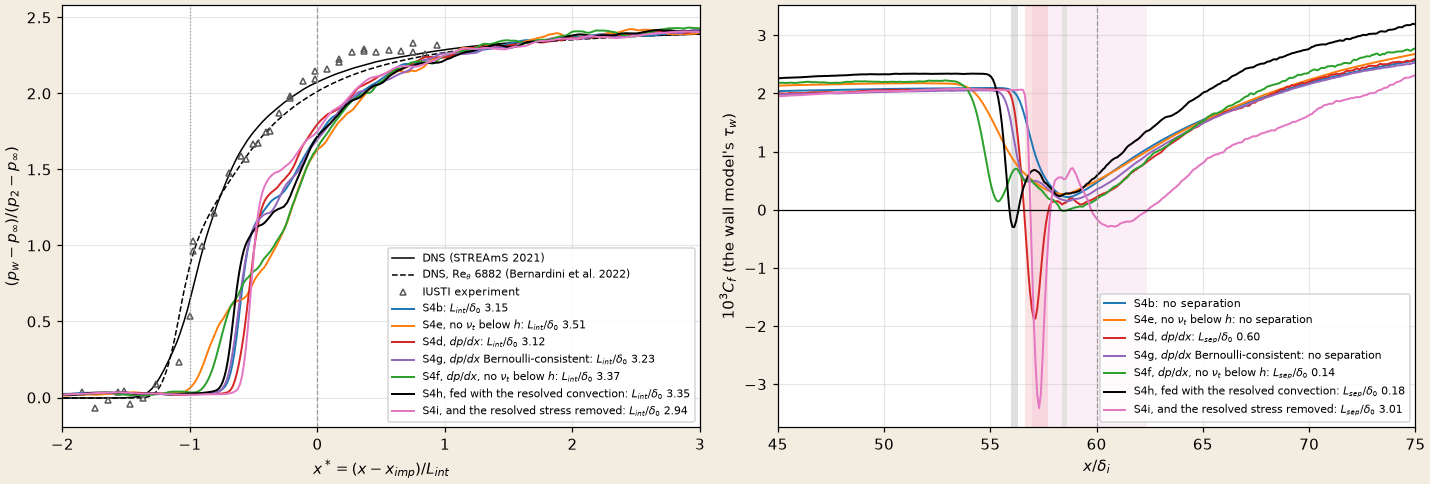
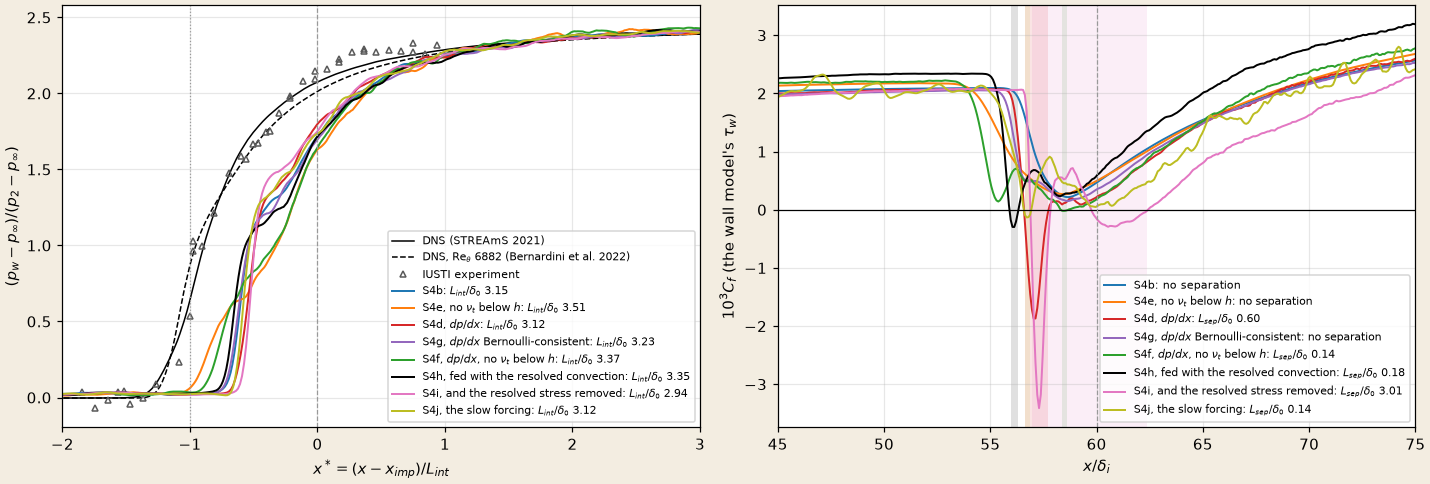
docs(flume): S4j, the slow-forcing wall model in the SBLI: the incoming layer kept, the interaction S4b's (#121)
P4b item 3. S4b restarted at t 1200 with the slow-forcing model that passed the zero-gradient gate
(wall_model_resolved_stress, wall_model_velocity_scale = sum, wall_model_pressure_gradient_filter =
100), to t 1650 (job 1367628, one node, 4 A30, 10 h 48 min; fresh forcing averages, so statistics
over the 25 checkpoints of t >= 1500, where the first sample weighs e^-3). Post-processing job 1367679
(compare, fields, compression, reversal; 1367629 failed: the test tree lacks the DNS reference
files, rerun with the oracle directory that holds them).

- The incoming layer is S4b's: C_f within 2 % upstream (+1.7, -1.9, -1.2, 0.0 % over x 15-52).
- The interaction is S4b's too: L_int 3.12 delta_0 (S4b 3.16, DNS 3.30), the compression 0.25 delta_0
  later, L_sep from tau_w 0.14 delta_0 where the DNS's bubble begins, no mean reversal of the first
  cell, reversed area 0.049 (S4b 0.068).
- S4h's gains (onset 0.3 delta_0 upstream, L_int 3.36) do not survive the consistent model; whether
  they came from its fast forcing's response to the shock foot or from its biased incoming layer is
  not separated (a hypothesis).

Docs: sbli.md "The run: S4j" (table, three bullets), header S4b-S4j, the pg-runs caption, Not done;
streams index row; figures sbli-pg-runs and sbli-reversal (light and dark) with S4j.

New OpenACC/OpenMP directives: none (no Fortran changed).

Gate: ruff check make_doc_figures.py; vitepress build of the snapshot.

diff --git a/src/tests/flume/verification/make_doc_figures.py b/src/tests/flume/verification/make_doc_figures.py
@@ -3158,13 +3158,14 @@ def fig_sbli_pg_runs(out: Path, runs: Path) -> None:
     y*_pg 4), S4f (dp/dx without the eddy viscosity below h), S4h (fed with the resolved convection), S4i (and the resolved stress
     removed, the velocity scale from tau_w), each when its JSON exists, with S4b and S4e (no
     eddy viscosity, no dp/dx). Data: the sbli_oracle compare JSONs
-    <runs>/sbli/sbli-m2p28-8{,-pg,-pgb,-pgnu,-nonu,-pgc,-pgr}.json. Left: the mean wall pressure against x* with the DNS and the experiment; right: C_f against x,
+    <runs>/sbli/sbli-m2p28-8{,-pg,-pgb,-pgnu,-nonu,-pgc,-pgr,-pgs}.json. Left: the mean wall pressure against x* with the DNS and the experiment; right: C_f against x,
     the reversed stretches shaded."""
     import json  # noqa: PLC0415
 
     runs_ = [("sbli-m2p28-8", "C0", "S4b"), ("sbli-m2p28-8-nonu", "C1", r"S4e, no $\nu_t$ below $h$"), ("sbli-m2p28-8-pg", "C3", "S4d, $dp/dx$"),
              ("sbli-m2p28-8-pgb", "C4", "S4g, $dp/dx$ Bernoulli-consistent"), ("sbli-m2p28-8-pgnu", "C2", r"S4f, $dp/dx$, no $\nu_t$ below $h$"),
-             ("sbli-m2p28-8-pgc", "k", "S4h, fed with the resolved convection"), ("sbli-m2p28-8-pgr", "C6", "S4i, and the resolved stress removed")]
+             ("sbli-m2p28-8-pgc", "k", "S4h, fed with the resolved convection"), ("sbli-m2p28-8-pgr", "C6", "S4i, and the resolved stress removed"),
+             ("sbli-m2p28-8-pgs", "C8", "S4j, the slow forcing")]
     runs_ = [r for r in runs_ if (runs / "sbli" / f"{r[0]}.json").exists()]
     js = {name: json.loads((runs / "sbli" / f"{name}.json").read_text()) for name, _, _ in runs_}
     fig, axs = plt.subplots(1, 2, figsize=(13.0, 4.4), constrained_layout=True)
@@ -3209,7 +3210,8 @@ def fig_sbli_reversal(out: Path, runs: Path) -> None:
 
     runs_ = [("s4b", "S4b", "C0"), ("s4c", "S4c, 2:1 box", "C2"), ("s4d", "S4d, $dp/dx$", "C3"), ("s4e", r"S4e, no $\nu_t$ below $h$", "C1"),
              ("s4f", r"S4f, $dp/dx$, no $\nu_t$", "C5"), ("s4g", "S4g, Bernoulli-consistent", "C4"), ("s4h", "S4h, convection-fed", "k"),
-             ("s4i", "S4i, resolved stress removed", "C6")]
+             ("s4i", "S4i, resolved stress removed", "C6"),
+             ("s4j", "S4j, the slow forcing", "C8")]
     runs_ = [r for r in runs_ if (runs / "sbli" / f"rev2-{r[0]}.json").exists()]
     fig, axs = plt.subplots(1, 2, figsize=(13.0, 4.2), constrained_layout=True, gridspec_kw={"width_ratios": [1.6, 1.0]})
     first, third, labels, colors = [], [], [], []

diff --git a/docs/applications/flume/verification/streams/sbli.md b/docs/applications/flume/verification/streams/sbli.md
@@ -2,7 +2,7 @@
 
 | ID | Milestone | Type | Legs | Backends | Figure |
 |---|---|---|---|---|---|
-| — (campaign `tbl_cases_s4.txt`) | [#121](https://github.com/szaghi/adam/issues/121) · S4b–S4i | P | none (the pressure-gradient key: wm12) | FNL | yes |
+| — (campaign `tbl_cases_s4.txt`) | [#121](https://github.com/szaghi/adam/issues/121) · S4b–S4j | P | none (the pressure-gradient key: wm12) | FNL | yes |
 
 ## Case and scope
 
@@ -417,8 +417,8 @@ Two more restarts of S4b at $t=1200$, run to $t=1450$, statistics over $t\ge1300
 
 ![The pressure-gradient runs against S4b and S4e](/flume/sbli-pg-runs.png)
 
-*Left: the mean wall pressure of S4b, S4e, S4d, S4g, S4f, S4h (black, [below](#the-run-s4h)) and S4i (pink,
-[below](#the-run-s4i)) against the DNS and the experiment; right: $C_f$ from the
+*Left: the mean wall pressure of S4b, S4e, S4d, S4g, S4f, S4h (black, [below](#the-run-s4h)) S4i (pink,
+[below](#the-run-s4i)) and S4j (olive, [below](#the-run-s4j)) against the DNS and the experiment; right: $C_f$ from the
 wall model's $\tau_w$, the reversed stretches shaded. The legend's $L_{int}$ is `compare`'s, 0.01 below the table's.
 `make_doc_figures.py --only sbli-pg-runs`.*
 
@@ -673,9 +673,42 @@ S4i; the mean $u$ of the first cell dotted, half its incoming speed as a thin li
   the third cell, the free-stream pressure, a fixed temperature), so differences between the rows are firmer than each row against
   the 2 % criterion.
 
+### The run: S4j
+
+The slow-forcing model the a priori above favoured, after its zero-gradient gate
+([boundary layer](../turbulence/boundary-layer#the-wall-model-fed-with-the-resolved-convection): the forcing filtered over 100 keeps
+the layer within 1.9 % of the equilibrium model's, over 50 within 2.2 %): `wall_model_resolved_stress`,
+`wall_model_velocity_scale = sum` and `wall_model_pressure_gradient_filter = 100`. S4b restarted at $t=1200$ to 1650 on one node
+(4 A30, 10 h 48 min); its forcing averages start fresh, so the statistics take the 25 checkpoints of $t\ge1500$, where the first
+sample weighs $e^{-3}$; the olive line of [the figure above](#the-pressure-gradient-without-the-convection-with-it-and-without-the-eddy-viscosity).
+
+| | S4j, the slow forcing | S4h, fed with the resolved convection | S4i, scale from $\tau_w$ | S4b | DNS, $Re_\theta=6882$ |
+|---|---|---|---|---|---|
+| $L_{int}/\delta_0$ (the time-mean field) | 3.12 | 3.36 | 2.94 | 3.16 | 3.30 |
+| $L_{sep}/\delta_0$ from $\tau_w$ | 0.14 ($x^*=-0.62$ to $-0.57$) | 0.18 ($x^*=-0.66$ to $-0.61$) | 3.01, under a forward first cell | 0 | 2.16 ($x^*=-0.8$ to $-0.15$) |
+| $C_f$ minimum ($10^{-3}$) | $-0.13$ at $x=56.7$ | $-0.30$ | $-3.41$ | 0.21 | |
+| time-mean $u<0$ in the first cell | none | $0.41\,\delta_0$ | none | none | |
+| 5 % / 50 % of the rise, ahead of $x_{imp}$ | 2.09 / $1.85\,\delta_0$ | 2.63 / 2.23 | 1.85 / 1.59 | 2.34 / 1.96 | 4.13 / 3.60 |
+| first-cell Mach number at $x_{imp}-5\,\delta_0$ | 0.96 | 0.91 | 0.98 | 0.98 | 0.83 |
+| reversed area per unit span, mean (max), $\delta_0^2$ | 0.049 (0.071) | 0.091 | 0.033 (0.054) | 0.068 (0.142) | |
+| first / third cells reversed | 7.1 % / 3.5 % | | 4.8 % / 2.5 % | 9.5 % / 5.1 % | |
+| $C_f$ upstream against S4b: $x=15$–25, 25–35, 35–45, 45–52 | $+1.7$, $-1.9$, $-1.2$, $0.0$ % | +5, +6, +9.5, +12 % | $-0.4$, $-6.0$, $-5.8$, $-2.5$ % | | |
+| $C_f$ behind the interaction against S4b: $x=64$–70, 70–80 | $-9$, $+1$ % | +30, +24 % | $-36$, $-11$ % | | |
+
+- **The incoming layer is S4b's.** Upstream $C_f$ stays within 2 % of S4b's, as the zero-gradient gate promised, where S4h's
+  rose by up to 12 % and S4i's fell by 6 %.
+- **The interaction is S4b's too.** $L_{int}$ is S4b's within 1.3 %, the compression starts $0.25\,\delta_0$ later than S4b's, the
+  first cell is as fast (Mach 0.96) and reverses less (7 % of the cells against 9.5 %). The wall stress dips to zero where the DNS's
+  bubble begins, as S4h's did, over $0.14\,\delta_0$; the resolved first cell does not reverse in the mean.
+- **So S4h's gains do not survive the consistent model.** S4h moved the onset $0.3\,\delta_0$ upstream and $L_{int}$ to the DNS's,
+  but with a forcing filtered over 10 time units, which follows the interaction's unsteadiness, and a zero-gradient layer 5 to 12 %
+  too high; filtered over 100, about half the low-frequency period ($St_L\approx0.03$, about 180 time units), the forcing is close
+  to the mean, the zero-gradient layer is right, and the interaction returns to the equilibrium model's. Whether S4h's gain came
+  from its response to the moving shock foot or from the bias of its incoming layer is not separated by these runs (a hypothesis).
+
 ## Not done
 
-- A separation of the right length and place. The equilibrium-type models do not give it: the pressure gradient alone opens $0.6\,\delta_0$ by an inconsistent balance, the consistent one none, the slower near-wall layer $0.14\,\delta_0$ ([above](#the-pressure-gradient-without-the-convection-with-it-and-without-the-eddy-viscosity)). The model fed with the resolved convection (S4h) moves the onset and $L_{int}$ the right way and opens $0.18\,\delta_0$ where the DNS's bubble begins, but counts the resolved stress twice ($C_f$ of the zero-gradient layer +5 to +12 %). With the resolved stress removed and the velocity scale from $\tau_w$ (S4i) it passes the zero-gradient layer, but the scale collapses under the adverse gradient: $\tau_w<0$ under a forward first cell and a shorter interaction ([above](#the-run-s4i)). Velocity scales meant to keep the mean forcing without its fluctuation, tested a priori on both flows ([above](#a-priori-the-velocity-scale-of-the-eddy-viscosity)): only the slow forcing, in both the balance and S4h's scale $|\tau_w|+|\bar S|$, keeps the zero-gradient layer (within 2 %) without chattering under the adverse gradient; it needs a time filter of the forcing longer than the code's and a key that keeps S4h's scale with the resolved stress removed, and has not been run. Left: that run; and a matching height fixed in $\delta_i$ across the levels.
+- A separation of the right length and place. The equilibrium-type models do not give it: the pressure gradient alone opens $0.6\,\delta_0$ by an inconsistent balance, the consistent one none, the slower near-wall layer $0.14\,\delta_0$ ([above](#the-pressure-gradient-without-the-convection-with-it-and-without-the-eddy-viscosity)). The model fed with the resolved convection (S4h) moves the onset and $L_{int}$ the right way and opens $0.18\,\delta_0$ where the DNS's bubble begins, but counts the resolved stress twice ($C_f$ of the zero-gradient layer +5 to +12 %). With the resolved stress removed and the velocity scale from $\tau_w$ (S4i) it passes the zero-gradient layer, but the scale collapses under the adverse gradient: $\tau_w<0$ under a forward first cell and a shorter interaction ([above](#the-run-s4i)). Velocity scales meant to keep the mean forcing without its fluctuation, tested a priori on both flows ([above](#a-priori-the-velocity-scale-of-the-eddy-viscosity)): only the slow forcing, in both the balance and S4h's scale $|\tau_w|+|\bar S|$, keeps the zero-gradient layer; run as S4j ([above](#the-run-s4j)) it keeps the incoming layer and returns the interaction to S4b's (no bubble beyond $0.14\,\delta_0$, the compression $0.25\,\delta_0$ later). No wall model tried here, equilibrium-type or fed with the resolved convection, both consistent on the zero-gradient layer and closer to the DNS in the interaction. Left: a matching height fixed in $\delta$ above the DNS's bubble (about $4h$ tall), and a matching height fixed in $\delta_i$ across the levels.
 - The late compression ($x^*\approx-0.6$ half-way against the DNS's $-1.1$), unchanged by the near-wall grid and by the pressure-gradient term; moved 40 % of the way by taking out the eddy viscosity below $h$ (S4e), which also moves the incoming layer off the DNS's: the matching between the model and the resolved near-wall cells.
 - The wall-pressure fluctuations and the low-frequency unsteadiness.
 - The recycling–rescaling inflow (S5).

diff --git a/docs/applications/flume/verification/streams/index.md b/docs/applications/flume/verification/streams/index.md
@@ -50,10 +50,11 @@ The toolchain is [#121](https://github.com/szaghi/adam/issues/121), which contin
 | S4g | The Bernoulli-consistent pressure gradient (`wall_model_pressure_gradient_ypg`): no separation | wm2 (`test_wall_model`); a run restarted from S4b | [Shock/boundary-layer interaction](./sbli#the-pressure-gradient-without-the-convection-with-it-and-without-the-eddy-viscosity) |
 | S4h | The model fed with the resolved convection (`wall_model_convection`): the onset and $L_{int}$ move toward the DNS, the zero-gradient $C_f$ by +5 to +12 % | wm2, wm13 (turbulence); a run restarted from S4b | [Shock/boundary-layer interaction](./sbli#the-run-s4h) |
 | S4i | And the resolved stress removed, the velocity scale from $\tau_w$ (`wall_model_resolved_stress`): passes the zero-gradient layer; in the interaction $\tau_w<0$ under a forward first cell, $L_{int}$ 2.94 | wm13 (turbulence); a run restarted from S4b | [Shock/boundary-layer interaction](./sbli#the-run-s4i) |
+| S4j | The slow forcing (`wall_model_velocity_scale = sum`, the resolved stress removed, the forcing filtered over 100): the incoming layer within 2 % of S4b's, the interaction S4b's ($L_{int}$ 3.12, $L_{sep}$ 0.14) | wm13 (turbulence); a run restarted from S4b | [Shock/boundary-layer interaction](./sbli#the-run-s4j) |
 | S5 | Recycling–rescaling turbulent inflow | — | not started |
 
 | Page | Phases | Legs | Type |
 |---|---|---|---|
 | [Non-reflecting boundary](./non-reflecting) | S2 | nr1–nr4 | P |
 | [Shock generator](./shock-generator) | S3, S4a | sg1–sg4 (boundary) | P |
-| [Shock/boundary-layer interaction](./sbli) | S4b–S4i | campaign | P |
+| [Shock/boundary-layer interaction](./sbli) | S4b–S4j | campaign | P |
